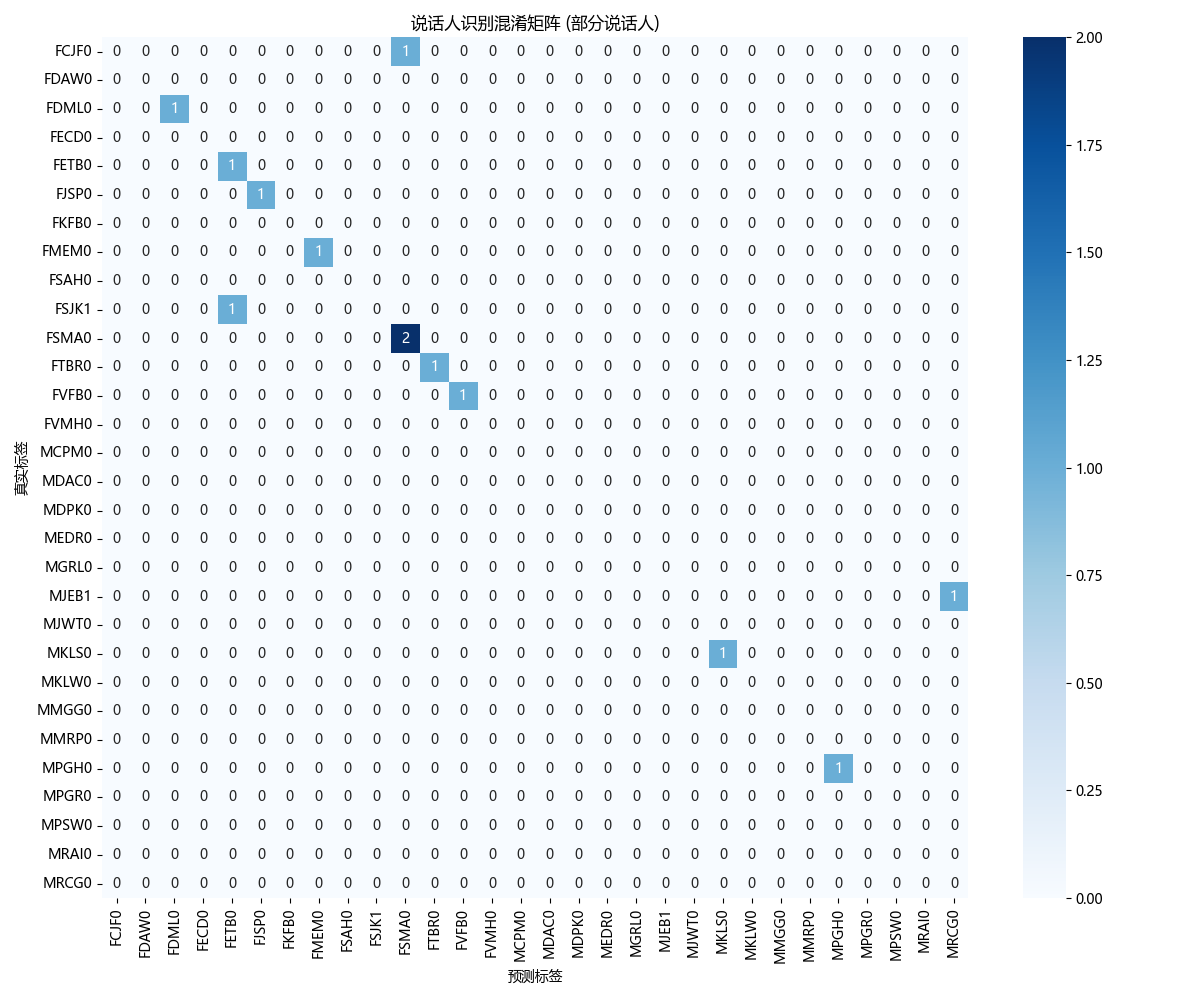
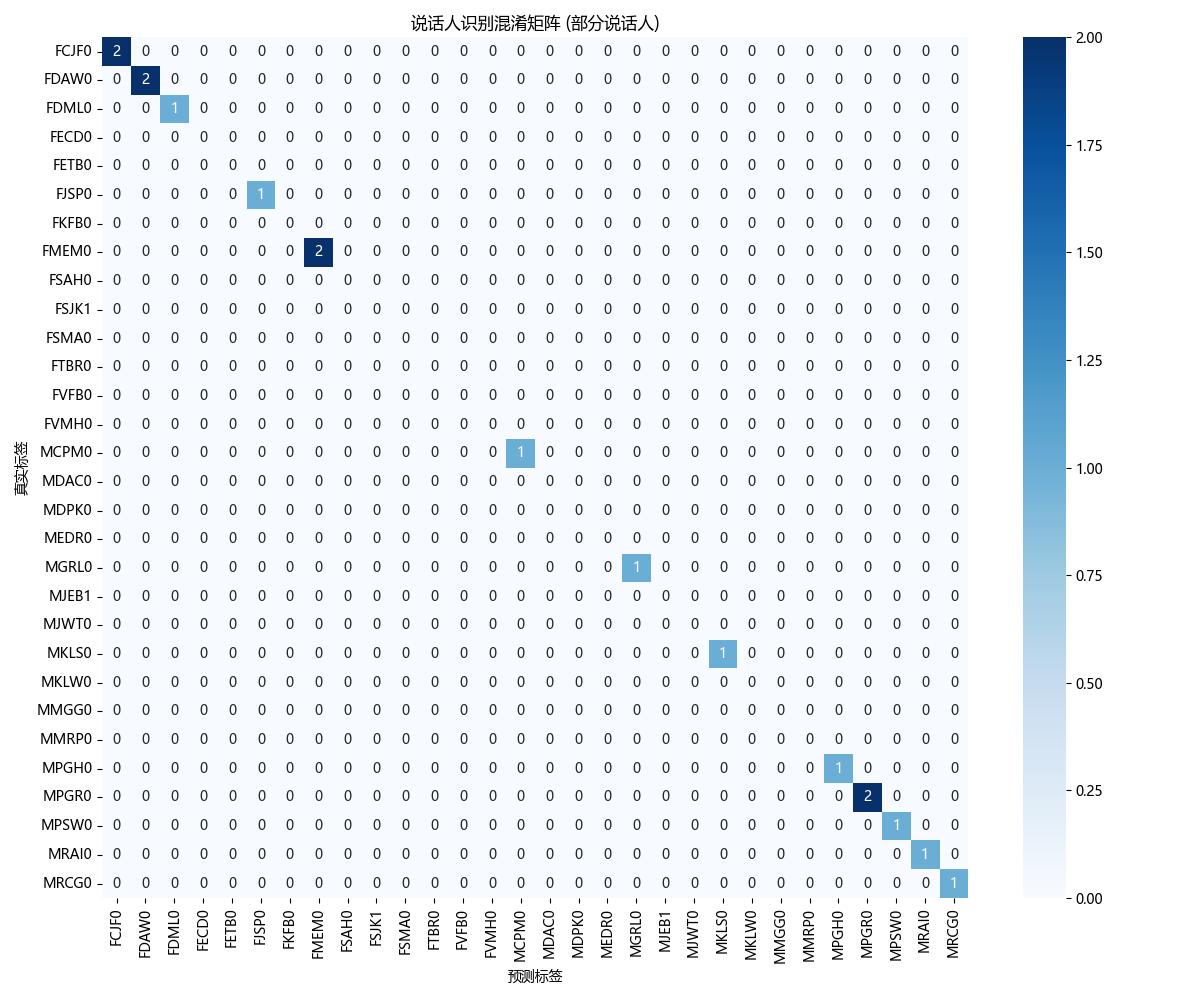
[BACKUP]

diff --git a/main.py b/main.py
@@ -110,13 +110,18 @@ def extract_mfcc_features(audio_file, n_mfcc=13, n_fft=2048, hop_length=512):
         mfcc_features: MFCC特征
     """
     # 加载音频文件
+    # sr=None ：保留原始采样率（不进行重采样）。
     audio, sr = librosa.load(audio_file, sr=None)
     
     # 提取MFCC特征
+    # @n_mfcc ：MFCC 系数数量（默认 13，对应语音的基频特征）。
+    # @n_fft ：FFT 窗口大小（2048 对应约 93 ms 的音频片段，适用于语音信号）。
+    # @hop_length ：帧移步长（512 对应 ~23 ms 的时间步长）。
     mfcc_features = librosa.feature.mfcc(y=audio, sr=sr, n_mfcc=n_mfcc, 
                                          n_fft=n_fft, hop_length=hop_length)
     
     # 计算MFCC特征的均值，得到固定长度的特征向量
+    # 均值池化的作用 :固定长度特征,不同音频文件的时长不同，直接取均值可将特征压缩为固定长度向量
     mfcc_features = np.mean(mfcc_features, axis=1)
     
     return mfcc_features
@@ -133,6 +138,9 @@ def extract_features_for_all_speakers(speakers_data, feature_function):
     Returns:
         features_dict: 包含所有说话人特征的字典
     """
+    # 创建一个字典来存储所有说话人的特征
+    # 每个说话人对应一个特征列表，列表长度等于其音频文件数量。
+    # 每个特征向量的形状由 feature_function 决定（如 MFCC 的 13 维向量）
     features_dict = {}
     
     for speaker_id, audio_files in tqdm(speakers_data.items(), desc="提取特征"):
@@ -167,36 +175,24 @@ def train_gmm_models(features_dict, n_components=8, reg_covar=1e-2):
         # GMM组件数量不能超过样本数量
         actual_n_components = min(n_components, max(1, X.shape[0] - 1))  # 至少保留1个组件，且不超过样本数-1
         if actual_n_components < n_components:
-            print(f"警告: 说话人 {speaker_id} 的样本数量为 {X.shape[0]}，调整组件数量为 {actual_n_components}。")
-        
-        # 检查特征是否包含NaN或无限值
-        if np.isnan(X).any() or np.isinf(X).any():
-            print(f"警告: 说话人 {speaker_id} 的特征包含NaN或无限值，已替换为0")
-            X = np.nan_to_num(X)
+            raise ValueError(f"组件数量为 {actual_n_components}，与样本数量不一致: {X.shape[0]}")
         
         # 训练GMM模型，增加正则化参数
-        try:
-            gmm = GaussianMixture(
+        # GMM
+        # @n_components ：组件数量越大，模型复杂度越高
+        # covariance_type ：
+        # @diag ：协方差矩阵为对角阵（计算快，假设特征间无相关性）。
+        # @full ：协方差矩阵为全矩阵（更灵活，但参数更多）。
+        # @reg_covar ：协方差矩阵的正则化项（防止数值不稳定，如协方差为零）
+        gmm = GaussianMixture(
                 n_components=actual_n_components, 
                 covariance_type='diag',
                 random_state=42, 
                 max_iter=200,
                 reg_covar=reg_covar  # 增加协方差正则化参数
             )
-            gmm.fit(X.reshape(X.shape[0], -1))
-            gmm_models[speaker_id] = gmm
-        except Exception as e:
-            print(f"错误: 无法为说话人 {speaker_id} 训练GMM模型: {str(e)}")
-            # 使用单高斯模型作为后备选项
-            gmm = GaussianMixture(
-                n_components=1, 
-                covariance_type='full',
-                random_state=42, 
-                max_iter=200,
-                reg_covar=reg_covar*10  # 更强的正则化
-            )
-            gmm.fit(X.reshape(X.shape[0], -1))
-            gmm_models[speaker_id] = gmm
+        gmm.fit(X.reshape(X.shape[0], -1))
+        gmm_models[speaker_id] = gmm
     
     return gmm_models
 
@@ -220,6 +216,7 @@ def recognize_speaker(audio_file, gmm_models, feature_function):
     # 计算每个说话人模型的得分
     scores = {}
     for speaker_id, gmm in gmm_models.items():
+        # score = log(P(audio | model))，概率越高，得分越大。
         scores[speaker_id] = gmm.score(features.reshape(1, -1))
     
     # 选择得分最高的说话人
@@ -268,7 +265,7 @@ if __name__ == "__main__":
     test_data, test_speakers = load_speaker_data(TestDir)
     
     # 特征提取参数 - 存储参数而不是函数
-    mfcc_params = {"n_mfcc": 13, "n_fft": 2048, "hop_length": 512}
+    mfcc_params = {"n_mfcc": 128, "n_fft": 2048, "hop_length": 512}
     
     # 特征提取函数 - 使用较少的MFCC系数
     feature_function = lambda x: extract_mfcc_features(x, **mfcc_params)
@@ -333,7 +330,7 @@ if __name__ == "__main__":
     # 实验不同特征提取方法
     # print("\n比较不同特征提取方法...")
     
-    # # 定义不同的特征提取函数
+    # # # 定义不同的特征提取函数
     # def extract_mfcc_delta_features(audio_file):
     #     """提取MFCC及其一阶和二阶差分特征"""
     #     audio, sr = librosa.load(audio_file, sr=None)
